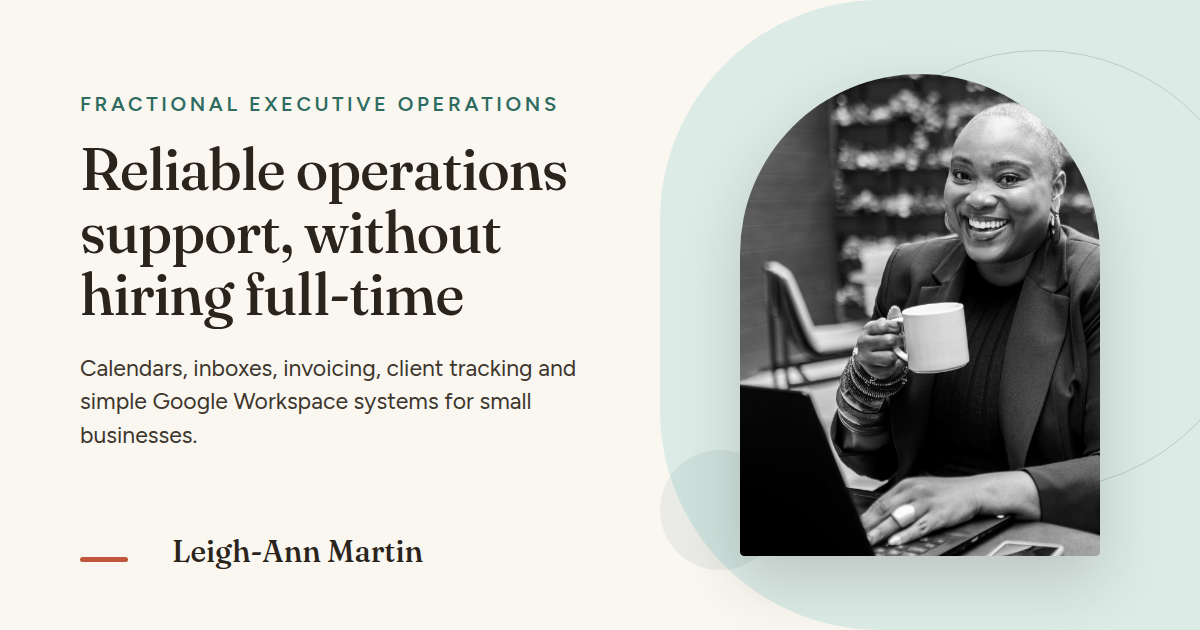
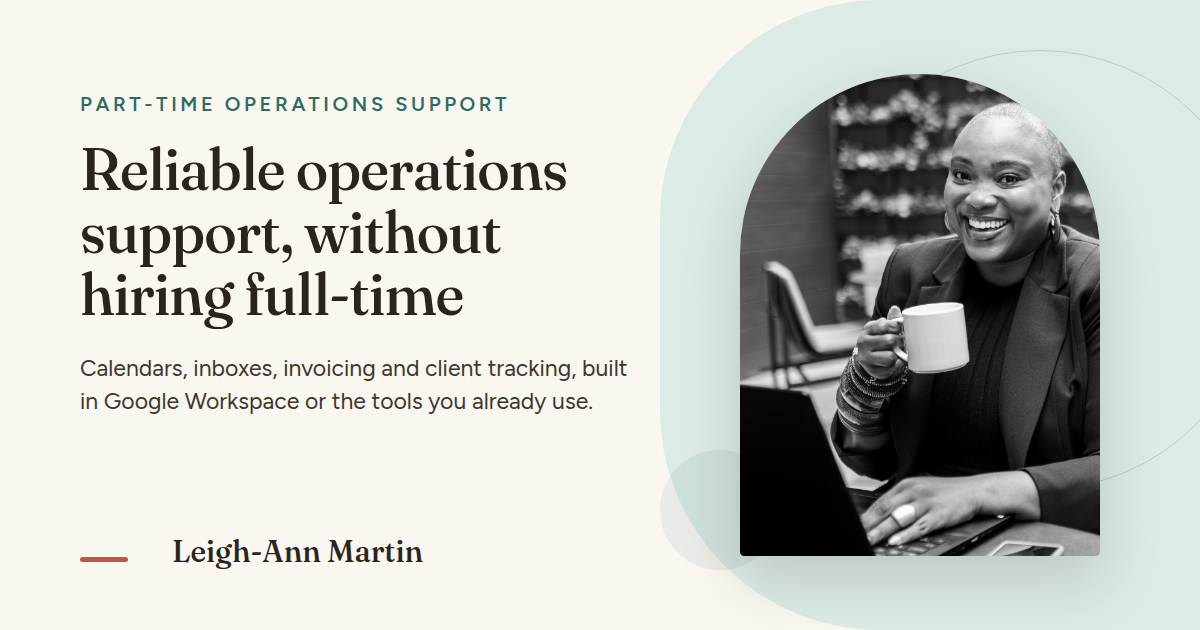
copy: match share images to the new page copy
Eyebrow now reads "Part-time operations support" and the subtitle says the
work is built in Google Workspace or the tools the client already uses.

Claude-Session: https://claude.ai/code/session_01UQst6mp6QpTFgDjzQLEcy9

Changed region(s): [[0.0617, 0.573, 0.5242, 0.7238], [0.0617, 0.1508, 0.4625, 0.181]]

diff --git a/scripts/og/template.html b/scripts/og/template.html
@@ -41,7 +41,7 @@
   .v1 .ring2 { position: absolute; width: 120px; height: 120px; border-radius: 50%; background: var(--accent); opacity: 0.08; right: 420px; bottom: 60px; }
   .v1 .text { position: absolute; left: 80px; top: 92px; width: 560px; }
   .v1 .h { font-size: 58px; margin-top: 22px; }
-  .v1 .sub { margin-top: 26px; font-size: 23px; line-height: 1.45; color: var(--soft); }
+  .v1 .sub { text-wrap: balance; margin-top: 26px; font-size: 23px; line-height: 1.45; color: var(--soft); }
   .v1 .portrait { position: absolute; right: 100px; top: 74px; width: 360px; height: 482px; border-radius: var(--radius); box-shadow: 0 24px 60px rgba(43,36,28,0.18); }
   .v1 .foot { position: absolute; left: 80px; bottom: 60px; display: flex; gap: 28px; align-items: baseline; }
   .v1 .dash { display: inline-block; width: 48px; height: 5px; background: var(--accent2); border-radius: 3px; margin-right: 16px; vertical-align: middle; }
@@ -85,7 +85,7 @@
   const theme = q.get("theme") || "teal";
   const portrait = q.get("portrait");
   const headline = "Reliable operations support, without hiring full-time";
-  const sub = "Calendars, inboxes, invoicing, client tracking and simple Google Workspace systems for small businesses.";
+  const sub = "Calendars, inboxes, invoicing and client tracking, built in Google Workspace or the tools you already use.";
   const url = "leighannmartin.com";
   const skills = ["Calendar management", "Inbox management", "Project management", "Invoices, AR and AP tracking", "Client and event folders", "Contracts and follow-ups", "Operations and systems", "Google Workspace workflows"];
 
@@ -94,7 +94,7 @@
           <div class="block"><span class="ring"></span></div>
           <span class="ring2"></span>
           <div class="text">
-            <p class="eyebrow">Fractional executive operations</p>
+            <p class="eyebrow">Part-time operations support</p>
             <h1 class="serif h">${headline}</h1>
             <p class="sub">${sub}</p>
           </div>
@@ -103,25 +103,25 @@
         </div>`,
     2: `<div class="v2 card">
           <span class="ghost" style="width:520px;height:520px;right:-160px;top:-180px"></span>
-          <p class="eyebrow">Fractional executive operations</p>
+          <p class="eyebrow">Part-time operations support</p>
           <div><h1 class="serif h">${headline}</h1><div class="rule"></div></div>
           <div class="foot"><span class="name">Leigh-Ann Martin</span><span class="url">${url}</span></div>
         </div>`,
     3: `<div class="v3 card">
           <h1 class="serif big">Leigh-Ann<br>Martin</h1>
-          <p class="desc">Fractional executive operations for small and growing businesses.</p>
+          <p class="desc">Part-time operations support for small and growing businesses.</p>
           <div class="pills">${["Calendar & inbox", "Invoicing & tracking", "Operations & systems", "Google Workspace"].map(s => `<span class="pill">${s}</span>`).join("")}</div>
           <span class="url">${url}</span>
         </div>`,
     4: `<div class="v4 card">
           <div class="left">
-            <div><p class="eyebrow">Fractional executive operations</p><h1 class="serif h">${headline}</h1></div>
+            <div><p class="eyebrow">Part-time operations support</p><h1 class="serif h">${headline}</h1></div>
             <div><div class="name" style="color:var(--on-dark)">Leigh-Ann Martin</div><div class="url" style="margin-top:6px">${url}</div></div>
           </div>
           <img class="portrait" src="${portrait}" />
         </div>`,
     5: `<div class="v5 card">
-          <p class="eyebrow">Leigh-Ann Martin &middot; Fractional executive operations</p>
+          <p class="eyebrow">Leigh-Ann Martin &middot; Part-time operations support</p>
           <h1 class="serif h">${headline}</h1>
           <ul class="grid">${skills.map(s => `<li>${s}</li>`).join("")}</ul>
           <div class="foot"><span class="url">${url}</span><span class="url">Small &amp; growing businesses</span></div>
